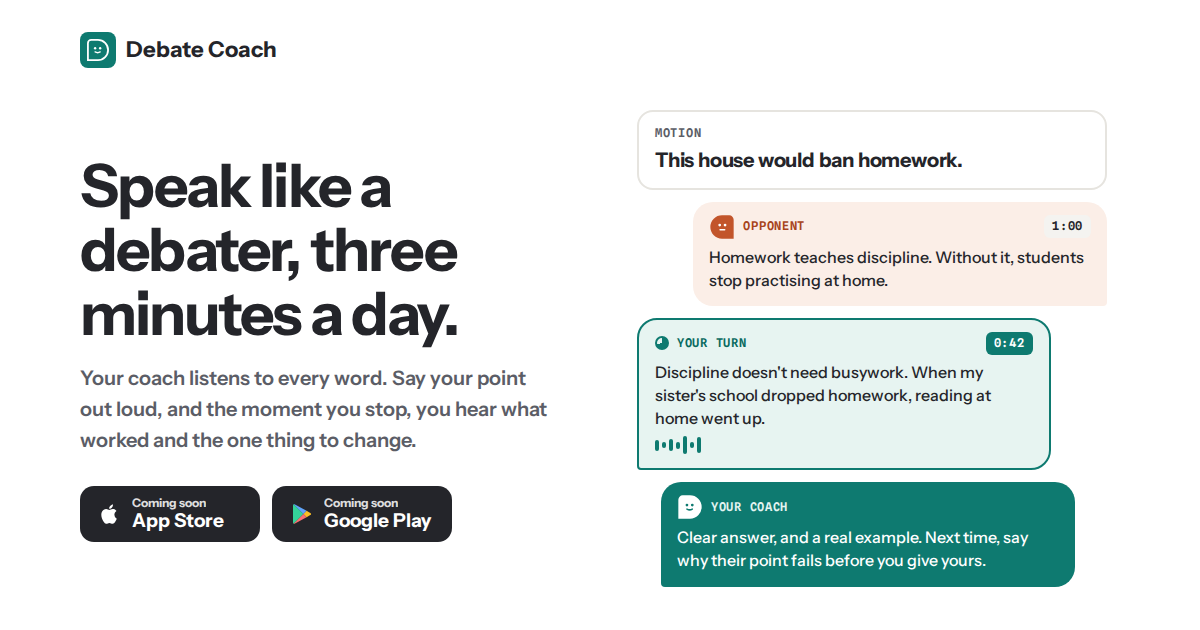
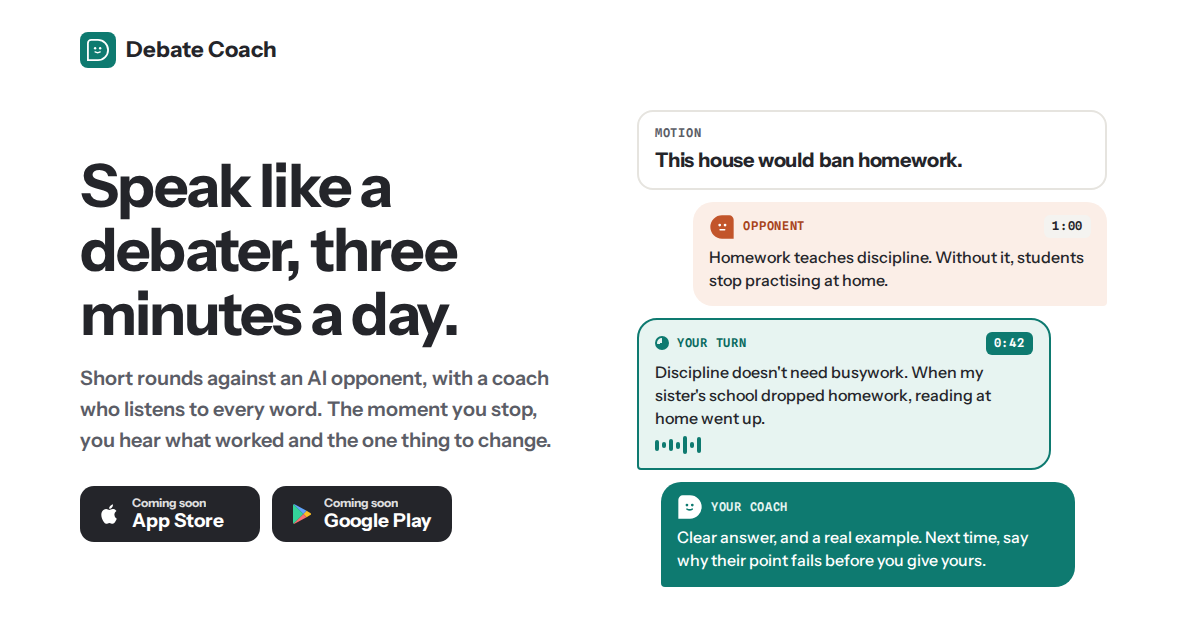
The rounds and the levels on the page; the card; no weekly note; a privacy page
- today's round on the Home phone, the five rounds under it
- the finish card with the five marks; the path phone shows the six levels
- 'Your language'; the ballot becomes the card, judged in seconds
- the weekly-note card becomes 'Judged by Shadow Judge'; FAQ: what a round is
- privacy.html with what is kept, where it goes, deletion, 13+, contact

Changed region(s): [[0.0617, 0.573, 0.4625, 0.7238]]

diff --git a/index.html b/index.html
@@ -283,7 +283,7 @@ footer .links a:hover{color:var(--ink)}
   <nav class="navlinks" aria-label="Main">
     <a href="#daily">How it works</a>
     <a href="#languages">Languages</a>
-    <a href="#private">Privacy</a>
+    <a href="privacy.html">Privacy</a>
     <a href="#faq">Questions</a>
     <button class="theme" id="theme-toggle" type="button" aria-label="Switch to dark mode"><svg class="moon" viewBox="0 0 24 24" aria-hidden="true"><path d="M20 14.5A8 8 0 0 1 9.5 4a8 8 0 1 0 10.5 10.5z" fill="currentColor"/></svg><svg class="sun" viewBox="0 0 24 24" aria-hidden="true"><circle cx="12" cy="12" r="4.5" fill="currentColor"/><g stroke="currentColor" stroke-width="2.2" stroke-linecap="round"><path d="M12 2v2.5M12 19.5V22M2 12h2.5M19.5 12H22M4.9 4.9l1.8 1.8M17.3 17.3l1.8 1.8M4.9 19.1l1.8-1.8M17.3 6.7l1.8-1.8"/></g></svg></button>
     <a class="btn" href="#get">Get the app</a>
@@ -294,7 +294,7 @@ footer .links a:hover{color:var(--ink)}
 <div class="wrap hero" id="top">
   <div>
     <h1>Speak like a debater, three minutes a day.</h1>
-    <p class="lead">Your coach listens to every word. Say your point out loud, and the moment you stop, you hear what worked and the one thing to change.</p>
+    <p class="lead">Short rounds against an AI opponent, with a coach who listens to every word. The moment you stop, you hear what worked and the one thing to change.</p>
     <div class="stores" role="list" aria-label="Where to get the app">
       <div class="store" role="listitem"><svg aria-hidden="true"><use href="#apple"/></svg><span><small>Coming soon</small><b>App Store</b></span></div>
       <div class="store" role="listitem"><svg aria-hidden="true"><use href="#play"/></svg><span><small>Coming soon</small><b>Google Play</b></span></div>
@@ -324,21 +324,21 @@ footer .links a:hover{color:var(--ink)}
   <div class="wrap row">
     <div class="copy">
       <span class="kicker">Every day</span>
-      <h2 id="daily-h">Three minutes is enough.</h2>
-      <p>Each day your coach picks one short task from your last practice, like answering an argument or giving your opinion in a minute. Do one and your streak grows.</p>
+      <h2 id="daily-h">One round a day is enough.</h2>
+      <p>Each day your coach picks one short round for your level, on the motion of the day: a minute of opinion, four quick rebuttals, or a three-minute clash. Do one and your streak grows.</p>
     </div>
     <div class="art">
-      <div class="phone" role="img" aria-label="The home screen. A five-day streak, two of three minutes done today, and today's task: answer one argument about banning homework, with a Start button.">
+      <div class="phone" role="img" aria-label="The home screen. A five-day streak, level 3, and today's round: Rapid rebuttal, two minutes, on the motion of the day, with a Start button. Below it, the rounds the level opens.">
         <div class="screen">
-          <div style="display:flex;justify-content:space-between;align-items:center"><span class="s-h">Hi Mia</span><span class="chips"><span class="chip sun"><svg width="14" height="14" aria-hidden="true"><use href="#flame"/></svg>5</span><span class="chip">2 of 3 min</span></span></div>
+          <div style="display:flex;justify-content:space-between;align-items:center"><span class="s-h">Hi Mia</span><span class="chips"><span class="chip sun"><svg width="14" height="14" aria-hidden="true"><use href="#flame"/></svg>5</span><span class="chip">Level 3</span></span></div>
           <div class="s-today">
-            <div style="display:flex;gap:10px;align-items:center"><svg width="40" height="40" aria-hidden="true" style="color:#fff"><use href="#sam-smile" style="--sam:#fff;--sam-face:var(--go)"/></svg><div><div class="s-lab">Today's three minutes</div><div style="font-weight:700;font-size:16px">Answer one argument</div></div></div>
-            <div style="font-weight:700">"Homework should be banned." Say why it's wrong, with an example.</div>
+            <div style="display:flex;gap:10px;align-items:center"><svg width="40" height="40" aria-hidden="true" style="color:#fff"><use href="#sam-smile" style="--sam:#fff;--sam-face:var(--go)"/></svg><div><div class="s-lab">Today's round · 2 min</div><div style="font-weight:700;font-size:16px">Rapid rebuttal</div></div></div>
+            <div style="font-weight:700">"This house would ban homework." Four arguments. Say why each one fails.</div>
             <div class="s-btn">Start</div>
           </div>
           <div class="s-card" style="flex-direction:row;align-items:center;gap:10px"><svg width="18" height="18" viewBox="0 0 24 24" aria-hidden="true"><rect x="4" y="3" width="16" height="18" rx="3" stroke="var(--go)" stroke-width="2.4" fill="none"/><path d="M8 9h8M8 13h8M8 17h5" stroke="var(--go)" stroke-width="2.4" stroke-linecap="round"/></svg><div><b>Yesterday's report is ready</b><div style="font-size:12px;color:var(--muted);font-weight:600">Phones in class, 1 minute</div></div></div>
-          <div class="s-lab">When you have more time</div>
-          <div class="mini"><div><b>Debate</b><span>Against AI speakers</span></div><div><b>Speech</b><span>2 to 7 minutes</span></div><div><b>Conversation</b><span>With a partner</span></div><div><b>Drill</b><span>One skill at a time</span></div></div>
+          <div class="s-lab">More rounds</div>
+          <div class="mini"><div><b>Say it</b><span>1 minute</span></div><div><b>Clash</b><span>3 minutes</span></div><div><b>Crossfire</b><span>2 minutes</span></div><div><b>Switch sides</b><span>3 minutes</span></div></div>
         </div>
       </div>
       <svg class="float" width="96" height="96" viewBox="0 0 24 24" aria-hidden="true" style="right:8%;top:6%"><use href="#flame"/></svg>
@@ -351,16 +351,16 @@ footer .links a:hover{color:var(--ink)}
     <div class="copy">
       <span class="kicker">The moment you stop</span>
       <h2 id="finish-h">No waiting for a verdict.</h2>
-      <p>Your coach says what you did well and what to change as soon as you finish. Your full report follows about two minutes later, down to how fast you spoke and how often you said "um".</p>
+      <p>Your coach says what you did well and what to change as soon as you finish, and your card is in your hand seconds later: your point, your reason, your example, your answer and your sum-up, each marked.</p>
     </div>
     <div class="art">
-      <div class="phone" role="img" aria-label="The end of a practice. The coach cheers and says the reason was clear and to add an example next time. Two chips read Gave a reason and Add an example, and the streak reaches day one.">
+      <div class="phone" role="img" aria-label="The end of a round. The coach cheers and says the reason was clear and to add an example next time. The card reads 7 of 10 with five marks, and the streak reaches day one.">
         <div class="screen" style="align-items:stretch">
           <div style="display:flex;justify-content:center;padding-top:6px"><svg width="110" height="110" aria-hidden="true"><use href="#sam-cheer"/></svg></div>
           <div style="text-align:center;font-family:var(--display);font-weight:700;font-size:24px">Nice one</div>
           <div class="bubble">"You gave a clear reason. Next time, add one example from your own class."</div>
-          <div class="chips" style="justify-content:center"><span class="chip on">You did: gave a reason</span><span class="chip next">Next: add an example</span></div>
-          <div class="s-card" style="flex-direction:row;align-items:center;gap:10px"><svg width="26" height="26" aria-hidden="true"><use href="#flame"/></svg><div><b>Day 1 of your streak</b><div style="font-size:12px;color:var(--muted);font-weight:600">Your full report is on its way.</div></div></div>
+          <div class="chips" style="justify-content:center"><span class="chip on">7 of 10</span><span class="chip on">Point</span><span class="chip on">Reason</span><span class="chip next">Example</span><span class="chip on">Answer</span><span class="chip next">Sum up</span></div>
+          <div class="s-card" style="flex-direction:row;align-items:center;gap:10px"><svg width="26" height="26" aria-hidden="true"><use href="#flame"/></svg><div><b>Day 1 of your streak</b><div style="font-size:12px;color:var(--muted);font-weight:600">Two more with a reason and level 3 opens.</div></div></div>
           <div style="flex:1"></div>
           <div class="s-btn go">Try again with an example</div>
         </div>
@@ -374,20 +374,21 @@ footer .links a:hover{color:var(--ink)}
   <div class="wrap row">
     <div class="copy">
       <span class="kicker">Built on debate</span>
-      <h2 id="path-h">The structure debaters use, for every conversation.</h2>
-      <p>Say your point, give a reason, add an example and answer the other side. Your path fills in as your coach hears each one. When you're ready, take on AI speakers in World Schools, British Parliamentary, Public Forum or Lincoln-Douglas.</p>
+      <h2 id="path-h">Six levels, from your first opinion to a full round.</h2>
+      <p>You don't need to know what a rebuttal is. Level 1 is one minute of opinion; each level adds one skill, and your coach says the word for it when its round arrives. Three rounds in a row with the skill heard, and the next level opens. At level 6, take on AI speakers in World Schools, British Parliamentary, Public Forum or Lincoln-Douglas.</p>
     </div>
     <div class="art">
-      <div class="phone" role="img" aria-label="Your path. Say your point first and Give a reason are done, Add an example is where you are, and Answer the other side and Sum up in one line are still to come.">
+      <div class="phone" role="img" aria-label="Your path. Level 1 Say it and level 2 Back it up are done, level 3 Answer back is where you are with two of three heard, and levels 4 Both sides, 5 The round and 6 Debater are still to come.">
         <div class="screen">
           <div class="s-h">Your path</div>
-          <div style="font-size:12.5px;color:var(--muted);font-weight:700;margin-top:-6px">A skill fills in when your coach hears it.</div>
+          <div style="font-size:12.5px;color:var(--muted);font-weight:700;margin-top:-6px">A level opens when your coach has heard its skill three times.</div>
           <div class="path">
-            <div class="node"><span class="dot done"><svg width="22" height="22" aria-hidden="true"><use href="#tick"/></svg></span><div><b>Say your point first</b><span>Heard in 4 practices</span></div></div>
-            <div class="node" style="margin-left:34px"><span class="dot done"><svg width="22" height="22" aria-hidden="true"><use href="#tick"/></svg></span><div><b>Give a reason</b><span>Heard in 3 practices</span></div></div>
-            <div class="node" style="margin-left:68px"><span class="dot here"><svg width="30" height="30" aria-hidden="true"><use href="#sam-smile"/></svg></span><div><b>Add an example</b><span style="color:var(--go-text)">You're here</span></div></div>
-            <div class="node" style="margin-left:34px"><span class="dot lock"><svg width="20" height="20" aria-hidden="true"><use href="#lock"/></svg></span><div><b style="color:var(--muted)">Answer the other side</b></div></div>
-            <div class="node"><span class="dot lock"><svg width="20" height="20" aria-hidden="true"><use href="#lock"/></svg></span><div><b style="color:var(--muted)">Sum up in one line</b></div></div>
+            <div class="node"><span class="dot done"><svg width="22" height="22" aria-hidden="true"><use href="#tick"/></svg></span><div><b>1 · Say it</b><span>Your point first</span></div></div>
+            <div class="node" style="margin-left:34px"><span class="dot done"><svg width="22" height="22" aria-hidden="true"><use href="#tick"/></svg></span><div><b>2 · Back it up</b><span>A reason and an example</span></div></div>
+            <div class="node" style="margin-left:68px"><span class="dot here"><svg width="30" height="30" aria-hidden="true"><use href="#sam-smile"/></svg></span><div><b>3 · Answer back</b><span style="color:var(--go-text)">You're here · 2 of 3 heard</span></div></div>
+            <div class="node" style="margin-left:34px"><span class="dot lock"><svg width="20" height="20" aria-hidden="true"><use href="#lock"/></svg></span><div><b style="color:var(--muted)">4 · Both sides</b><span>Clash and Switch sides</span></div></div>
+            <div class="node"><span class="dot lock"><svg width="20" height="20" aria-hidden="true"><use href="#lock"/></svg></span><div><b style="color:var(--muted)">5 · The round</b><span>Crossfire</span></div></div>
+            <div class="node" style="margin-left:34px"><span class="dot lock"><svg width="20" height="20" aria-hidden="true"><use href="#lock"/></svg></span><div><b style="color:var(--muted)">6 · Debater</b><span>The formats</span></div></div>
           </div>
         </div>
       </div>
@@ -398,19 +399,19 @@ footer .links a:hover{color:var(--ink)}
 <section class="tinted" id="languages" aria-labelledby="lang-h">
   <div class="wrap row flip">
     <div class="copy">
-      <span class="kicker">Your family's language</span>
+      <span class="kicker">Your language</span>
       <h2 id="lang-h">Practise in English. Read your coach's notes in yours.</h2>
-      <p>You speak and listen in English. Your written report shows each note in English with your language beside it, so you always know exactly what to work on, and so does anyone helping you.</p>
+      <p>You speak and listen in English. Your card shows each note in English with your language beside it, so you always know exactly what to work on.</p>
       <ul class="langs" aria-label="Languages for menus and written notes"><li lang="en">English</li><li lang="zh-Hans">简体中文</li><li lang="zh-Hant">繁體中文</li><li lang="ko">한국어</li><li lang="ja">日本語</li><li lang="vi">Tiếng Việt</li><li lang="es">Español</li><li lang="pt">Português</li></ul>
     </div>
     <div class="art">
-      <div class="ballot" role="img" aria-label="A ballot for a two-minute speech on banning homework. Keep doing and Change next time, each in English with the Simplified Chinese beneath, then three figures and the coach's signature.">
-        <div class="b-head"><span>Ballot</span><span>Speech, 2:00</span></div>
+      <div class="ballot" role="img" aria-label="A card for a rapid rebuttal on banning homework. Keep doing and Next time, each in English with the Simplified Chinese beneath, then three figures and the coach's signature.">
+        <div class="b-head"><span>Card</span><span>Rapid rebuttal, 2:00</span></div>
         <div class="b-line"><span class="b-k">Motion</span><span>This house would ban homework</span></div>
         <div class="b-box keep"><span class="b-k">Keep doing · 继续保持</span><p lang="en">Keep pairing a claim with an answer to the likely objection.</p><p class="tr" lang="zh-Hans">提出观点时，紧接着回应对方可能的反对意见。</p></div>
-        <div class="b-box change"><span class="b-k">Change next time · 下次改进</span><p lang="en">Make sure every sentence argues the topic you were given.</p><p class="tr" lang="zh-Hans">确保每一句话都在论证给你的辩题。</p></div>
-        <div class="b-figs"><div><b>142</b><span>words a minute</span></div><div><b>3</b><span>ums and likes</span></div><div><b>1:52</b><span>of your 2:00</span></div></div>
-        <div class="b-sign"><svg width="30" height="30" aria-hidden="true"><use href="#sam-smile"/></svg><span>Your coach</span><span class="b-stamp">Judged in 1:48</span></div>
+        <div class="b-box change"><span class="b-k">Next time · 下次</span><p lang="en">Say why their point fails before you give yours.</p><p class="tr" lang="zh-Hans">先说明对方的观点为什么不成立，再提出你自己的观点。</p></div>
+        <div class="b-figs"><div><b>7/10</b><span>your score</span></div><div><b>4 of 5</b><span>skills heard</span></div><div><b>3</b><span>ums and likes</span></div></div>
+        <div class="b-sign"><svg width="30" height="30" aria-hidden="true"><use href="#sam-smile"/></svg><span>Your coach</span><span class="b-stamp">Card in 0:09</span></div>
       </div>
     </div>
   </div>
@@ -426,7 +427,7 @@ footer .links a:hover{color:var(--ink)}
     <div class="cards">
       <div class="card"><svg viewBox="0 0 44 44" aria-hidden="true"><rect width="44" height="44" rx="12" fill="var(--go-soft)"/><circle cx="22" cy="18" r="6" fill="none" stroke="var(--go)" stroke-width="3"/><path d="M11 35c2-6 6-8 11-8s9 2 11 8" stroke="var(--go)" stroke-width="3" fill="none" stroke-linecap="round"/></svg><h3>AI only</h3><p>Your coach and your opponents are AI. There's no chat and no public profile.</p></div>
       <div class="card"><svg viewBox="0 0 44 44" aria-hidden="true"><rect width="44" height="44" rx="12" fill="var(--sun-soft)"/><rect x="14" y="20" width="16" height="13" rx="3" fill="none" stroke="var(--ink)" stroke-width="3"/><path d="M17 20v-4a5 5 0 0 1 10 0v4" stroke="var(--ink)" stroke-width="3" fill="none"/></svg><h3>Recordings stay private</h3><p>Each practice is recorded so your coach can write the report. It stays in your account.</p></div>
-      <div class="card"><svg viewBox="0 0 44 44" aria-hidden="true"><rect width="44" height="44" rx="12" fill="var(--rust-soft)"/><rect x="11" y="14" width="22" height="16" rx="3" fill="none" stroke="var(--rust)" stroke-width="3"/><path d="M12 16l10 7 10-7" stroke="var(--rust)" stroke-width="3" fill="none" stroke-linejoin="round"/></svg><h3>A weekly note</h3><p>Send a summary each week to a parent or a coach: what you practised, for how long, and what to work on next.</p></div>
+      <div class="card"><svg viewBox="0 0 44 44" aria-hidden="true"><rect width="44" height="44" rx="12" fill="var(--rust-soft)"/><rect x="11" y="14" width="22" height="16" rx="3" fill="none" stroke="var(--rust)" stroke-width="3"/><path d="M12 16l10 7 10-7" stroke="var(--rust)" stroke-width="3" fill="none" stroke-linejoin="round"/></svg><h3>Judged by Shadow Judge</h3><p>Every round is judged by Shadow Judge, the AI debate-judging platform built with a real debate academy. Same judge, shorter rounds.</p></div>
     </div>
   </div>
 </section>
@@ -437,13 +438,14 @@ footer .links a:hover{color:var(--ink)}
     <div class="faq">
       <div style="display:flex;flex-direction:column;gap:12px">
         <details open><summary>Who is Debate Coach for?</summary><p>It's for anyone who wants to get better at debating or speak more clearly, from a first presentation to a World Schools round, a job interview or a meeting in English. You need to be 13 or older.</p></details>
-        <details><summary>Do I need debate experience?</summary><p>No. Your coach starts with one question and one minute, and builds from there. Full debates are there when you want them.</p></details>
+        <details><summary>Do I need debate experience?</summary><p>No. Level 1 is one minute of opinion on an everyday question. Each level adds one skill, and your coach explains each word when its round arrives. Full debates are at level 6.</p></details>
+        <details><summary>What is a round?</summary><p>A short practice against one AI opponent, one to three minutes long: Say it, Rapid rebuttal, Clash, Crossfire or Switch sides. You get a card at the end with five marks: your point, your reason, your example, your answer and your sum-up.</p></details>
         <details><summary>What do I need?</summary><p>You need a phone and a quiet place to talk. Earphones help, but you don't need them.</p></details>
         <details><summary>Do I talk to other people?</summary><p>No. Your coach and your opponents are AI, so you can practise whenever you like.</p></details>
       </div>
       <div style="display:flex;flex-direction:column;gap:12px">
         <details><summary>How much does it cost?</summary><p>Prices will be in the App Store and Google Play when the app launches.</p></details>
-        <details><summary>Which languages does it support?</summary><p>Every practice and lesson is in English. You speak English, and so do your coach and your opponents. The menus and buttons, your written report and the weekly note can also be shown in Simplified or Traditional Chinese, Korean, Japanese, Vietnamese, Spanish or Portuguese.</p></details>
+        <details><summary>Which languages does it support?</summary><p>Every practice and lesson is in English. You speak English, and so do your coach and your opponents. The menus, the buttons and your card can also be shown in Simplified or Traditional Chinese, Korean, Japanese, Vietnamese, Spanish or Portuguese.</p></details>
         <details><summary>Which debate formats are there?</summary><p>World Schools, British Parliamentary, Public Forum and Lincoln-Douglas, among others, with AI speakers in every other seat.</p></details>
         <details><summary>When can I get it?</summary><p>Debate Coach is in testing now. It's coming to iPhone and Android.</p></details>
       </div>
@@ -467,7 +469,7 @@ footer .links a:hover{color:var(--ink)}
 <footer>
   <div class="wrap">
     <span>© 2026 Debate Coach</span>
-    <nav class="links" aria-label="Footer"><a href="#daily">How it works</a><a href="#languages">Languages</a><a href="#private">Privacy</a><a href="#faq">Questions</a></nav>
+    <nav class="links" aria-label="Footer"><a href="#daily">How it works</a><a href="#languages">Languages</a><a href="privacy.html">Privacy</a><a href="#faq">Questions</a></nav>
   </div>
 </footer>
 

diff --git a/src/body.html b/src/body.html
@@ -260,7 +260,7 @@ footer .links a:hover{color:var(--ink)}
   <nav class="navlinks" aria-label="Main">
     <a href="#daily">How it works</a>
     <a href="#languages">Languages</a>
-    <a href="#private">Privacy</a>
+    <a href="privacy.html">Privacy</a>
     <a href="#faq">Questions</a>
     <button class="theme" id="theme-toggle" type="button" aria-label="Switch to dark mode"><svg class="moon" viewBox="0 0 24 24" aria-hidden="true"><path d="M20 14.5A8 8 0 0 1 9.5 4a8 8 0 1 0 10.5 10.5z" fill="currentColor"/></svg><svg class="sun" viewBox="0 0 24 24" aria-hidden="true"><circle cx="12" cy="12" r="4.5" fill="currentColor"/><g stroke="currentColor" stroke-width="2.2" stroke-linecap="round"><path d="M12 2v2.5M12 19.5V22M2 12h2.5M19.5 12H22M4.9 4.9l1.8 1.8M17.3 17.3l1.8 1.8M4.9 19.1l1.8-1.8M17.3 6.7l1.8-1.8"/></g></svg></button>
     <a class="btn" href="#get">Get the app</a>
@@ -271,7 +271,7 @@ footer .links a:hover{color:var(--ink)}
 <div class="wrap hero" id="top">
   <div>
     <h1>Speak like a debater, three minutes a day.</h1>
-    <p class="lead">Your coach listens to every word. Say your point out loud, and the moment you stop, you hear what worked and the one thing to change.</p>
+    <p class="lead">Short rounds against an AI opponent, with a coach who listens to every word. The moment you stop, you hear what worked and the one thing to change.</p>
     <div class="stores" role="list" aria-label="Where to get the app">
       <div class="store" role="listitem"><svg aria-hidden="true"><use href="#apple"/></svg><span><small>Coming soon</small><b>App Store</b></span></div>
       <div class="store" role="listitem"><svg aria-hidden="true"><use href="#play"/></svg><span><small>Coming soon</small><b>Google Play</b></span></div>
@@ -301,21 +301,21 @@ footer .links a:hover{color:var(--ink)}
   <div class="wrap row">
     <div class="copy">
       <span class="kicker">Every day</span>
-      <h2 id="daily-h">Three minutes is enough.</h2>
-      <p>Each day your coach picks one short task from your last practice, like answering an argument or giving your opinion in a minute. Do one and your streak grows.</p>
+      <h2 id="daily-h">One round a day is enough.</h2>
+      <p>Each day your coach picks one short round for your level, on the motion of the day: a minute of opinion, four quick rebuttals, or a three-minute clash. Do one and your streak grows.</p>
     </div>
     <div class="art">
-      <div class="phone" role="img" aria-label="The home screen. A five-day streak, two of three minutes done today, and today's task: answer one argument about banning homework, with a Start button.">
+      <div class="phone" role="img" aria-label="The home screen. A five-day streak, level 3, and today's round: Rapid rebuttal, two minutes, on the motion of the day, with a Start button. Below it, the rounds the level opens.">
         <div class="screen">
-          <div style="display:flex;justify-content:space-between;align-items:center"><span class="s-h">Hi Mia</span><span class="chips"><span class="chip sun"><svg width="14" height="14" aria-hidden="true"><use href="#flame"/></svg>5</span><span class="chip">2 of 3 min</span></span></div>
+          <div style="display:flex;justify-content:space-between;align-items:center"><span class="s-h">Hi Mia</span><span class="chips"><span class="chip sun"><svg width="14" height="14" aria-hidden="true"><use href="#flame"/></svg>5</span><span class="chip">Level 3</span></span></div>
           <div class="s-today">
-            <div style="display:flex;gap:10px;align-items:center"><svg width="40" height="40" aria-hidden="true" style="color:#fff"><use href="#sam-smile" style="--sam:#fff;--sam-face:var(--go)"/></svg><div><div class="s-lab">Today's three minutes</div><div style="font-weight:700;font-size:16px">Answer one argument</div></div></div>
-            <div style="font-weight:700">"Homework should be banned." Say why it's wrong, with an example.</div>
+            <div style="display:flex;gap:10px;align-items:center"><svg width="40" height="40" aria-hidden="true" style="color:#fff"><use href="#sam-smile" style="--sam:#fff;--sam-face:var(--go)"/></svg><div><div class="s-lab">Today's round · 2 min</div><div style="font-weight:700;font-size:16px">Rapid rebuttal</div></div></div>
+            <div style="font-weight:700">"This house would ban homework." Four arguments. Say why each one fails.</div>
             <div class="s-btn">Start</div>
           </div>
           <div class="s-card" style="flex-direction:row;align-items:center;gap:10px"><svg width="18" height="18" viewBox="0 0 24 24" aria-hidden="true"><rect x="4" y="3" width="16" height="18" rx="3" stroke="var(--go)" stroke-width="2.4" fill="none"/><path d="M8 9h8M8 13h8M8 17h5" stroke="var(--go)" stroke-width="2.4" stroke-linecap="round"/></svg><div><b>Yesterday's report is ready</b><div style="font-size:12px;color:var(--muted);font-weight:600">Phones in class, 1 minute</div></div></div>
-          <div class="s-lab">When you have more time</div>
-          <div class="mini"><div><b>Debate</b><span>Against AI speakers</span></div><div><b>Speech</b><span>2 to 7 minutes</span></div><div><b>Conversation</b><span>With a partner</span></div><div><b>Drill</b><span>One skill at a time</span></div></div>
+          <div class="s-lab">More rounds</div>
+          <div class="mini"><div><b>Say it</b><span>1 minute</span></div><div><b>Clash</b><span>3 minutes</span></div><div><b>Crossfire</b><span>2 minutes</span></div><div><b>Switch sides</b><span>3 minutes</span></div></div>
         </div>
       </div>
       <svg class="float" width="96" height="96" viewBox="0 0 24 24" aria-hidden="true" style="right:8%;top:6%"><use href="#flame"/></svg>
@@ -328,16 +328,16 @@ footer .links a:hover{color:var(--ink)}
     <div class="copy">
       <span class="kicker">The moment you stop</span>
       <h2 id="finish-h">No waiting for a verdict.</h2>
-      <p>Your coach says what you did well and what to change as soon as you finish. Your full report follows about two minutes later, down to how fast you spoke and how often you said "um".</p>
+      <p>Your coach says what you did well and what to change as soon as you finish, and your card is in your hand seconds later: your point, your reason, your example, your answer and your sum-up, each marked.</p>
     </div>
     <div class="art">
-      <div class="phone" role="img" aria-label="The end of a practice. The coach cheers and says the reason was clear and to add an example next time. Two chips read Gave a reason and Add an example, and the streak reaches day one.">
+      <div class="phone" role="img" aria-label="The end of a round. The coach cheers and says the reason was clear and to add an example next time. The card reads 7 of 10 with five marks, and the streak reaches day one.">
         <div class="screen" style="align-items:stretch">
           <div style="display:flex;justify-content:center;padding-top:6px"><svg width="110" height="110" aria-hidden="true"><use href="#sam-cheer"/></svg></div>
           <div style="text-align:center;font-family:var(--display);font-weight:700;font-size:24px">Nice one</div>
           <div class="bubble">"You gave a clear reason. Next time, add one example from your own class."</div>
-          <div class="chips" style="justify-content:center"><span class="chip on">You did: gave a reason</span><span class="chip next">Next: add an example</span></div>
-          <div class="s-card" style="flex-direction:row;align-items:center;gap:10px"><svg width="26" height="26" aria-hidden="true"><use href="#flame"/></svg><div><b>Day 1 of your streak</b><div style="font-size:12px;color:var(--muted);font-weight:600">Your full report is on its way.</div></div></div>
+          <div class="chips" style="justify-content:center"><span class="chip on">7 of 10</span><span class="chip on">Point</span><span class="chip on">Reason</span><span class="chip next">Example</span><span class="chip on">Answer</span><span class="chip next">Sum up</span></div>
+          <div class="s-card" style="flex-direction:row;align-items:center;gap:10px"><svg width="26" height="26" aria-hidden="true"><use href="#flame"/></svg><div><b>Day 1 of your streak</b><div style="font-size:12px;color:var(--muted);font-weight:600">Two more with a reason and level 3 opens.</div></div></div>
           <div style="flex:1"></div>
           <div class="s-btn go">Try again with an example</div>
         </div>
@@ -351,20 +351,21 @@ footer .links a:hover{color:var(--ink)}
   <div class="wrap row">
     <div class="copy">
       <span class="kicker">Built on debate</span>
-      <h2 id="path-h">The structure debaters use, for every conversation.</h2>
-      <p>Say your point, give a reason, add an example and answer the other side. Your path fills in as your coach hears each one. When you're ready, take on AI speakers in World Schools, British Parliamentary, Public Forum or Lincoln-Douglas.</p>
+      <h2 id="path-h">Six levels, from your first opinion to a full round.</h2>
+      <p>You don't need to know what a rebuttal is. Level 1 is one minute of opinion; each level adds one skill, and your coach says the word for it when its round arrives. Three rounds in a row with the skill heard, and the next level opens. At level 6, take on AI speakers in World Schools, British Parliamentary, Public Forum or Lincoln-Douglas.</p>
     </div>
     <div class="art">
-      <div class="phone" role="img" aria-label="Your path. Say your point first and Give a reason are done, Add an example is where you are, and Answer the other side and Sum up in one line are still to come.">
+      <div class="phone" role="img" aria-label="Your path. Level 1 Say it and level 2 Back it up are done, level 3 Answer back is where you are with two of three heard, and levels 4 Both sides, 5 The round and 6 Debater are still to come.">
         <div class="screen">
           <div class="s-h">Your path</div>
-          <div style="font-size:12.5px;color:var(--muted);font-weight:700;margin-top:-6px">A skill fills in when your coach hears it.</div>
+          <div style="font-size:12.5px;color:var(--muted);font-weight:700;margin-top:-6px">A level opens when your coach has heard its skill three times.</div>
           <div class="path">
-            <div class="node"><span class="dot done"><svg width="22" height="22" aria-hidden="true"><use href="#tick"/></svg></span><div><b>Say your point first</b><span>Heard in 4 practices</span></div></div>
-            <div class="node" style="margin-left:34px"><span class="dot done"><svg width="22" height="22" aria-hidden="true"><use href="#tick"/></svg></span><div><b>Give a reason</b><span>Heard in 3 practices</span></div></div>
-            <div class="node" style="margin-left:68px"><span class="dot here"><svg width="30" height="30" aria-hidden="true"><use href="#sam-smile"/></svg></span><div><b>Add an example</b><span style="color:var(--go-text)">You're here</span></div></div>
-            <div class="node" style="margin-left:34px"><span class="dot lock"><svg width="20" height="20" aria-hidden="true"><use href="#lock"/></svg></span><div><b style="color:var(--muted)">Answer the other side</b></div></div>
-            <div class="node"><span class="dot lock"><svg width="20" height="20" aria-hidden="true"><use href="#lock"/></svg></span><div><b style="color:var(--muted)">Sum up in one line</b></div></div>
+            <div class="node"><span class="dot done"><svg width="22" height="22" aria-hidden="true"><use href="#tick"/></svg></span><div><b>1 · Say it</b><span>Your point first</span></div></div>
+            <div class="node" style="margin-left:34px"><span class="dot done"><svg width="22" height="22" aria-hidden="true"><use href="#tick"/></svg></span><div><b>2 · Back it up</b><span>A reason and an example</span></div></div>
+            <div class="node" style="margin-left:68px"><span class="dot here"><svg width="30" height="30" aria-hidden="true"><use href="#sam-smile"/></svg></span><div><b>3 · Answer back</b><span style="color:var(--go-text)">You're here · 2 of 3 heard</span></div></div>
+            <div class="node" style="margin-left:34px"><span class="dot lock"><svg width="20" height="20" aria-hidden="true"><use href="#lock"/></svg></span><div><b style="color:var(--muted)">4 · Both sides</b><span>Clash and Switch sides</span></div></div>
+            <div class="node"><span class="dot lock"><svg width="20" height="20" aria-hidden="true"><use href="#lock"/></svg></span><div><b style="color:var(--muted)">5 · The round</b><span>Crossfire</span></div></div>
+            <div class="node" style="margin-left:34px"><span class="dot lock"><svg width="20" height="20" aria-hidden="true"><use href="#lock"/></svg></span><div><b style="color:var(--muted)">6 · Debater</b><span>The formats</span></div></div>
           </div>
         </div>
       </div>
@@ -375,19 +376,19 @@ footer .links a:hover{color:var(--ink)}
 <section class="tinted" id="languages" aria-labelledby="lang-h">
   <div class="wrap row flip">
     <div class="copy">
-      <span class="kicker">Your family's language</span>
+      <span class="kicker">Your language</span>
       <h2 id="lang-h">Practise in English. Read your coach's notes in yours.</h2>
-      <p>You speak and listen in English. Your written report shows each note in English with your language beside it, so you always know exactly what to work on, and so does anyone helping you.</p>
+      <p>You speak and listen in English. Your card shows each note in English with your language beside it, so you always know exactly what to work on.</p>
       <ul class="langs" aria-label="Languages for menus and written notes"><li lang="en">English</li><li lang="zh-Hans">简体中文</li><li lang="zh-Hant">繁體中文</li><li lang="ko">한국어</li><li lang="ja">日本語</li><li lang="vi">Tiếng Việt</li><li lang="es">Español</li><li lang="pt">Português</li></ul>
     </div>
     <div class="art">
-      <div class="ballot" role="img" aria-label="A ballot for a two-minute speech on banning homework. Keep doing and Change next time, each in English with the Simplified Chinese beneath, then three figures and the coach's signature.">
-        <div class="b-head"><span>Ballot</span><span>Speech, 2:00</span></div>
+      <div class="ballot" role="img" aria-label="A card for a rapid rebuttal on banning homework. Keep doing and Next time, each in English with the Simplified Chinese beneath, then three figures and the coach's signature.">
+        <div class="b-head"><span>Card</span><span>Rapid rebuttal, 2:00</span></div>
         <div class="b-line"><span class="b-k">Motion</span><span>This house would ban homework</span></div>
         <div class="b-box keep"><span class="b-k">Keep doing · 继续保持</span><p lang="en">Keep pairing a claim with an answer to the likely objection.</p><p class="tr" lang="zh-Hans">提出观点时，紧接着回应对方可能的反对意见。</p></div>
-        <div class="b-box change"><span class="b-k">Change next time · 下次改进</span><p lang="en">Make sure every sentence argues the topic you were given.</p><p class="tr" lang="zh-Hans">确保每一句话都在论证给你的辩题。</p></div>
-        <div class="b-figs"><div><b>142</b><span>words a minute</span></div><div><b>3</b><span>ums and likes</span></div><div><b>1:52</b><span>of your 2:00</span></div></div>
-        <div class="b-sign"><svg width="30" height="30" aria-hidden="true"><use href="#sam-smile"/></svg><span>Your coach</span><span class="b-stamp">Judged in 1:48</span></div>
+        <div class="b-box change"><span class="b-k">Next time · 下次</span><p lang="en">Say why their point fails before you give yours.</p><p class="tr" lang="zh-Hans">先说明对方的观点为什么不成立，再提出你自己的观点。</p></div>
+        <div class="b-figs"><div><b>7/10</b><span>your score</span></div><div><b>4 of 5</b><span>skills heard</span></div><div><b>3</b><span>ums and likes</span></div></div>
+        <div class="b-sign"><svg width="30" height="30" aria-hidden="true"><use href="#sam-smile"/></svg><span>Your coach</span><span class="b-stamp">Card in 0:09</span></div>
       </div>
     </div>
   </div>
@@ -403,7 +404,7 @@ footer .links a:hover{color:var(--ink)}
     <div class="cards">
       <div class="card"><svg viewBox="0 0 44 44" aria-hidden="true"><rect width="44" height="44" rx="12" fill="var(--go-soft)"/><circle cx="22" cy="18" r="6" fill="none" stroke="var(--go)" stroke-width="3"/><path d="M11 35c2-6 6-8 11-8s9 2 11 8" stroke="var(--go)" stroke-width="3" fill="none" stroke-linecap="round"/></svg><h3>AI only</h3><p>Your coach and your opponents are AI. There's no chat and no public profile.</p></div>
       <div class="card"><svg viewBox="0 0 44 44" aria-hidden="true"><rect width="44" height="44" rx="12" fill="var(--sun-soft)"/><rect x="14" y="20" width="16" height="13" rx="3" fill="none" stroke="var(--ink)" stroke-width="3"/><path d="M17 20v-4a5 5 0 0 1 10 0v4" stroke="var(--ink)" stroke-width="3" fill="none"/></svg><h3>Recordings stay private</h3><p>Each practice is recorded so your coach can write the report. It stays in your account.</p></div>
-      <div class="card"><svg viewBox="0 0 44 44" aria-hidden="true"><rect width="44" height="44" rx="12" fill="var(--rust-soft)"/><rect x="11" y="14" width="22" height="16" rx="3" fill="none" stroke="var(--rust)" stroke-width="3"/><path d="M12 16l10 7 10-7" stroke="var(--rust)" stroke-width="3" fill="none" stroke-linejoin="round"/></svg><h3>A weekly note</h3><p>Send a summary each week to a parent or a coach: what you practised, for how long, and what to work on next.</p></div>
+      <div class="card"><svg viewBox="0 0 44 44" aria-hidden="true"><rect width="44" height="44" rx="12" fill="var(--rust-soft)"/><rect x="11" y="14" width="22" height="16" rx="3" fill="none" stroke="var(--rust)" stroke-width="3"/><path d="M12 16l10 7 10-7" stroke="var(--rust)" stroke-width="3" fill="none" stroke-linejoin="round"/></svg><h3>Judged by Shadow Judge</h3><p>Every round is judged by Shadow Judge, the AI debate-judging platform built with a real debate academy. Same judge, shorter rounds.</p></div>
     </div>
   </div>
 </section>
@@ -414,13 +415,14 @@ footer .links a:hover{color:var(--ink)}
     <div class="faq">
       <div style="display:flex;flex-direction:column;gap:12px">
         <details open><summary>Who is Debate Coach for?</summary><p>It's for anyone who wants to get better at debating or speak more clearly, from a first presentation to a World Schools round, a job interview or a meeting in English. You need to be 13 or older.</p></details>
-        <details><summary>Do I need debate experience?</summary><p>No. Your coach starts with one question and one minute, and builds from there. Full debates are there when you want them.</p></details>
+        <details><summary>Do I need debate experience?</summary><p>No. Level 1 is one minute of opinion on an everyday question. Each level adds one skill, and your coach explains each word when its round arrives. Full debates are at level 6.</p></details>
+        <details><summary>What is a round?</summary><p>A short practice against one AI opponent, one to three minutes long: Say it, Rapid rebuttal, Clash, Crossfire or Switch sides. You get a card at the end with five marks: your point, your reason, your example, your answer and your sum-up.</p></details>
         <details><summary>What do I need?</summary><p>You need a phone and a quiet place to talk. Earphones help, but you don't need them.</p></details>
         <details><summary>Do I talk to other people?</summary><p>No. Your coach and your opponents are AI, so you can practise whenever you like.</p></details>
       </div>
       <div style="display:flex;flex-direction:column;gap:12px">
         <details><summary>How much does it cost?</summary><p>Prices will be in the App Store and Google Play when the app launches.</p></details>
-        <details><summary>Which languages does it support?</summary><p>Every practice and lesson is in English. You speak English, and so do your coach and your opponents. The menus and buttons, your written report and the weekly note can also be shown in Simplified or Traditional Chinese, Korean, Japanese, Vietnamese, Spanish or Portuguese.</p></details>
+        <details><summary>Which languages does it support?</summary><p>Every practice and lesson is in English. You speak English, and so do your coach and your opponents. The menus, the buttons and your card can also be shown in Simplified or Traditional Chinese, Korean, Japanese, Vietnamese, Spanish or Portuguese.</p></details>
         <details><summary>Which debate formats are there?</summary><p>World Schools, British Parliamentary, Public Forum and Lincoln-Douglas, among others, with AI speakers in every other seat.</p></details>
         <details><summary>When can I get it?</summary><p>Debate Coach is in testing now. It's coming to iPhone and Android.</p></details>
       </div>
@@ -444,7 +446,7 @@ footer .links a:hover{color:var(--ink)}
 <footer>
   <div class="wrap">
     <span>© 2026 Debate Coach</span>
-    <nav class="links" aria-label="Footer"><a href="#daily">How it works</a><a href="#languages">Languages</a><a href="#private">Privacy</a><a href="#faq">Questions</a></nav>
+    <nav class="links" aria-label="Footer"><a href="#daily">How it works</a><a href="#languages">Languages</a><a href="privacy.html">Privacy</a><a href="#faq">Questions</a></nav>
   </div>
 </footer>
 

diff --git a/privacy.html b/privacy.html
@@ -1,0 +1,61 @@
+<!doctype html>
+<html lang="en">
+<head>
+<meta charset="utf-8">
+<meta name="viewport" content="width=device-width,initial-scale=1,viewport-fit=cover">
+<title>Debate Coach: privacy</title>
+<meta name="description" content="What Debate Coach records, why, where it goes, and how to delete it.">
+<meta name="theme-color" content="#0e7a70">
+<link rel="canonical" href="https://debatecoach.app/privacy.html">
+<link rel="icon" href="favicon.ico" sizes="any">
+<link rel="icon" href="favicon.svg" type="image/svg+xml">
+<link rel="apple-touch-icon" href="apple-touch-icon.png">
+<link rel="preconnect" href="https://fonts.googleapis.com"><link rel="preconnect" href="https://fonts.gstatic.com" crossorigin><link rel="stylesheet" href="https://fonts.googleapis.com/css2?family=Instrument+Sans:wght@400;500;600;700&display=swap">
+<style>
+:root{--bg:#fbfaf7;--ink:#17181c;--muted:#5c5e66;--line:#e6e4dd;--go:#0e7a70;--go-text:#0b5e56;color-scheme:light}
+@media (prefers-color-scheme:dark){:root:not([data-theme="light"]){--bg:#17181c;--ink:#f4f3f0;--muted:#b3b1ab;--line:#2f3038;--go:#0e7a70;--go-text:#5fd3c3;color-scheme:dark}}
+:root[data-theme="dark"]{--bg:#17181c;--ink:#f4f3f0;--muted:#b3b1ab;--line:#2f3038;--go:#0e7a70;--go-text:#5fd3c3;color-scheme:dark}
+*{box-sizing:border-box}
+body{background:var(--bg);color:var(--ink);font-family:"Instrument Sans",system-ui,sans-serif;margin:0;font-size:18px;line-height:1.55}
+.wrap{max-width:720px;margin:0 auto;padding-left:max(20px,env(safe-area-inset-left,0px));padding-right:max(20px,env(safe-area-inset-right,0px));padding-block:40px 64px}
+h1,h2{letter-spacing:-.02em;text-wrap:balance;margin:0}
+h1{font-size:34px;margin-bottom:8px}
+h2{font-size:22px;margin-top:36px;margin-bottom:8px}
+p,li{margin:10px 0}
+a{color:var(--go-text);font-weight:600}
+.brand{display:inline-flex;align-items:center;gap:10px;font-weight:700;font-size:20px;text-decoration:none;color:var(--ink);margin-bottom:28px;min-height:44px}
+.brand img{width:28px;height:28px}
+.date{color:var(--muted);font-weight:600;font-size:15px}
+</style>
+</head>
+<body>
+<div class="wrap">
+<a class="brand" href="./"><img src="favicon.svg" alt="">Debate Coach</a>
+<h1>Privacy</h1>
+<p class="date">Last changed 26 October 2026. This page says what the app keeps, why, and how to delete it.</p>
+
+<h2>What the app keeps</h2>
+<ul>
+<li><b>Your account:</b> an email address and a password, and your date of birth, which we ask to check you are 13 or older. You can use the app for a first practice before making an account.</li>
+<li><b>Your practices:</b> each round is recorded so your coach can hear it. The app keeps the recording, the transcript of what was said, and the card or report your coach wrote. They are in your account and nobody else sees them.</li>
+<li><b>Your settings:</b> the language you chose for menus and notes.</li>
+<li><b>The usual technical facts:</b> the time a request was made and the kind of phone, so we can fix faults.</li>
+</ul>
+
+<h2>Where it goes</h2>
+<p>Debate Coach runs on Shadow Judge, the AI debate-judging platform. Your voice in a round is carried by LiveKit, written down by a speech-to-text service (Deepgram or AssemblyAI), answered by an AI opponent (OpenAI) and judged by an AI coach (Anthropic). Each of these receives only what it needs for that round, and none of them keeps your recordings to train their models. Your account, recordings and cards are stored with Supabase. Nothing is sold, and nothing is shared with advertisers.</p>
+
+<h2>How long it stays</h2>
+<p>Your recordings and cards stay in your account until you delete them or delete your account. A recording is kept so you can replay it and so your coach's card has something to point to.</p>
+
+<h2>Deleting</h2>
+<p>You can delete your account from inside the app, under You. That removes your account, your recordings, your transcripts and your cards. If you cannot open the app, write to the address below and we will do it for you.</p>
+
+<h2>Children</h2>
+<p>Debate Coach is for people aged 13 and over. We ask for a date of birth when an account is made and refuse one for anyone younger.</p>
+
+<h2>Contact</h2>
+<p>Questions about privacy go to <a href="mailto:hello@debatecoach.app">hello@debatecoach.app</a>.</p>
+</div>
+</body>
+</html>
